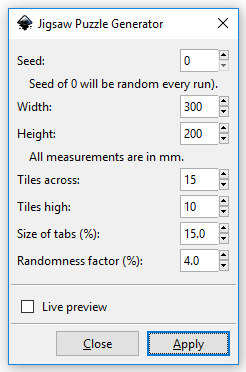
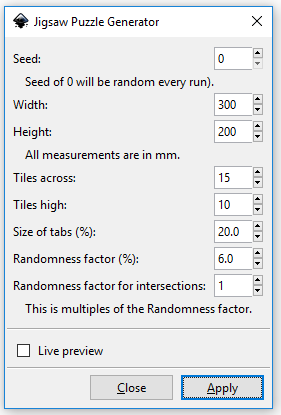
Add abilty to randomize the tiles a bit more.

Changed region(s): [[0.0, 0.0, 0.9959, 1.0], [0.8821, 0.1183, 0.939, 0.1774]]

diff --git a/jigsaw_puzzle.py b/jigsaw_puzzle.py
@@ -30,6 +30,8 @@ class JigsawPuzzle(inkex.Effect):
         self.OptionParser.add_option("--tiles_height", action="store", type="int", dest="tiles_height", default=10, help="Number of tiles high")
         self.OptionParser.add_option("--tab_size", action="store", type="float", dest="tab_size", default=15.0, help="Size of the tabs in %")
         self.OptionParser.add_option("--jitter", action="store", type="float", dest="jitter", default=4.0, help="Random factor (jitter)")
+        self.OptionParser.add_option("--jitter_join", action="store", type="int", dest="jitter_intersection", default=0, help="Randomness of intersections")
+        self.OptionParser.add_option("--debug", action="store", type="inkbool", dest="debugMode", default=False, help="Debug Mode")
 
     def effect(self):
 
@@ -74,13 +76,32 @@ class JigsawPuzzle(inkex.Effect):
         columnWidth = float(self.options.puzzle_width) / float(self.options.tiles_width)
         rowWidth = float(self.options.puzzle_height) / float(self.options.tiles_height)
 
+        if self.options.debugMode:
+            # Whatever debug output is needed to test things out
+            # self.generateRandomValues()
+            # start = Intersection(rowWidth/2.0, 0)
+            # end = Intersection(rowWidth, columnWidth)
+            
+            # pathData = "M" + str(start.column) + "," + str(start.row) + " "
+            # pathData += self.pathDataForLineWithOneTab(True, start, end)
+            # addPath(rows_group, horizontal_style, 'debug1', pathData)
+            return
+
         # Build array of intersection points
         intersections = list()
         for row in range(0, self.options.tiles_height + 1):
             intersections.append(list())
             for column in range(0, self.options.tiles_width + 1):
                 self.generateRandomValues()
-                intersections[row].append(Intersection(row * rowWidth, column * columnWidth))
+                # Positions are even columns, randomized a bit if they are not the ends of the paths
+                rowValue = row * rowWidth
+                if row > 0 and row < self.options.tiles_height:
+                    rowValue += self.randomJitter1 * float(self.options.jitter_intersection) * rowWidth
+                columnValue = column * columnWidth
+                if column > 0 and column < self.options.tiles_width:
+                    columnValue += self.randomJitter2 * float(self.options.jitter_intersection) * columnWidth
+
+                intersections[row].append(Intersection(rowValue, columnValue))
 
         # Horizontal Lines - go through each row and make connections between the column points
         for row in range(1, self.options.tiles_height):
@@ -193,7 +214,7 @@ class JigsawPuzzle(inkex.Effect):
         diffX = intersectionEnd.column - intersectionStart.column
         diffY = intersectionEnd.row - intersectionStart.row
         returnX = intersectionStart.column + diffX * percentAlong + diffY * percentOff
-        returnY = intersectionStart.row + diffY * percentAlong + diffX * percentOff
+        returnY = intersectionStart.row + diffY * percentAlong - diffX * percentOff
         return str(returnX) + "," + str(returnY)
 
     def generateRandomValues(self):

diff --git a/README.md b/README.md
@@ -23,6 +23,7 @@ Quick descriptions of the options:
 - Tiles across/high: number of puzzle pieces.
 - Size of tabs (%): size of the tabs as a percentage of the tile size.
 - Randomeness factor (%): maximum amount to randomize the design - again as a percent of the tile
+- Randomness factor for intersections: This is a multiplier on the randomness factor (so 0 is no effect, 2 is twice the effect) for moving the path intersections around.  The bigger the number here, the more irregular the pieces will be.  NOTE: This can easily go horribly wrong. A randomness % of 10% and multiplier of 5 will make a mess.  The more you use this, the more you need to look closely at the resulting paths to watch for overlaps.
 
 ## Example
 ![Sample Puzzle Part](/images/PuzzlePart.png?raw=true)
